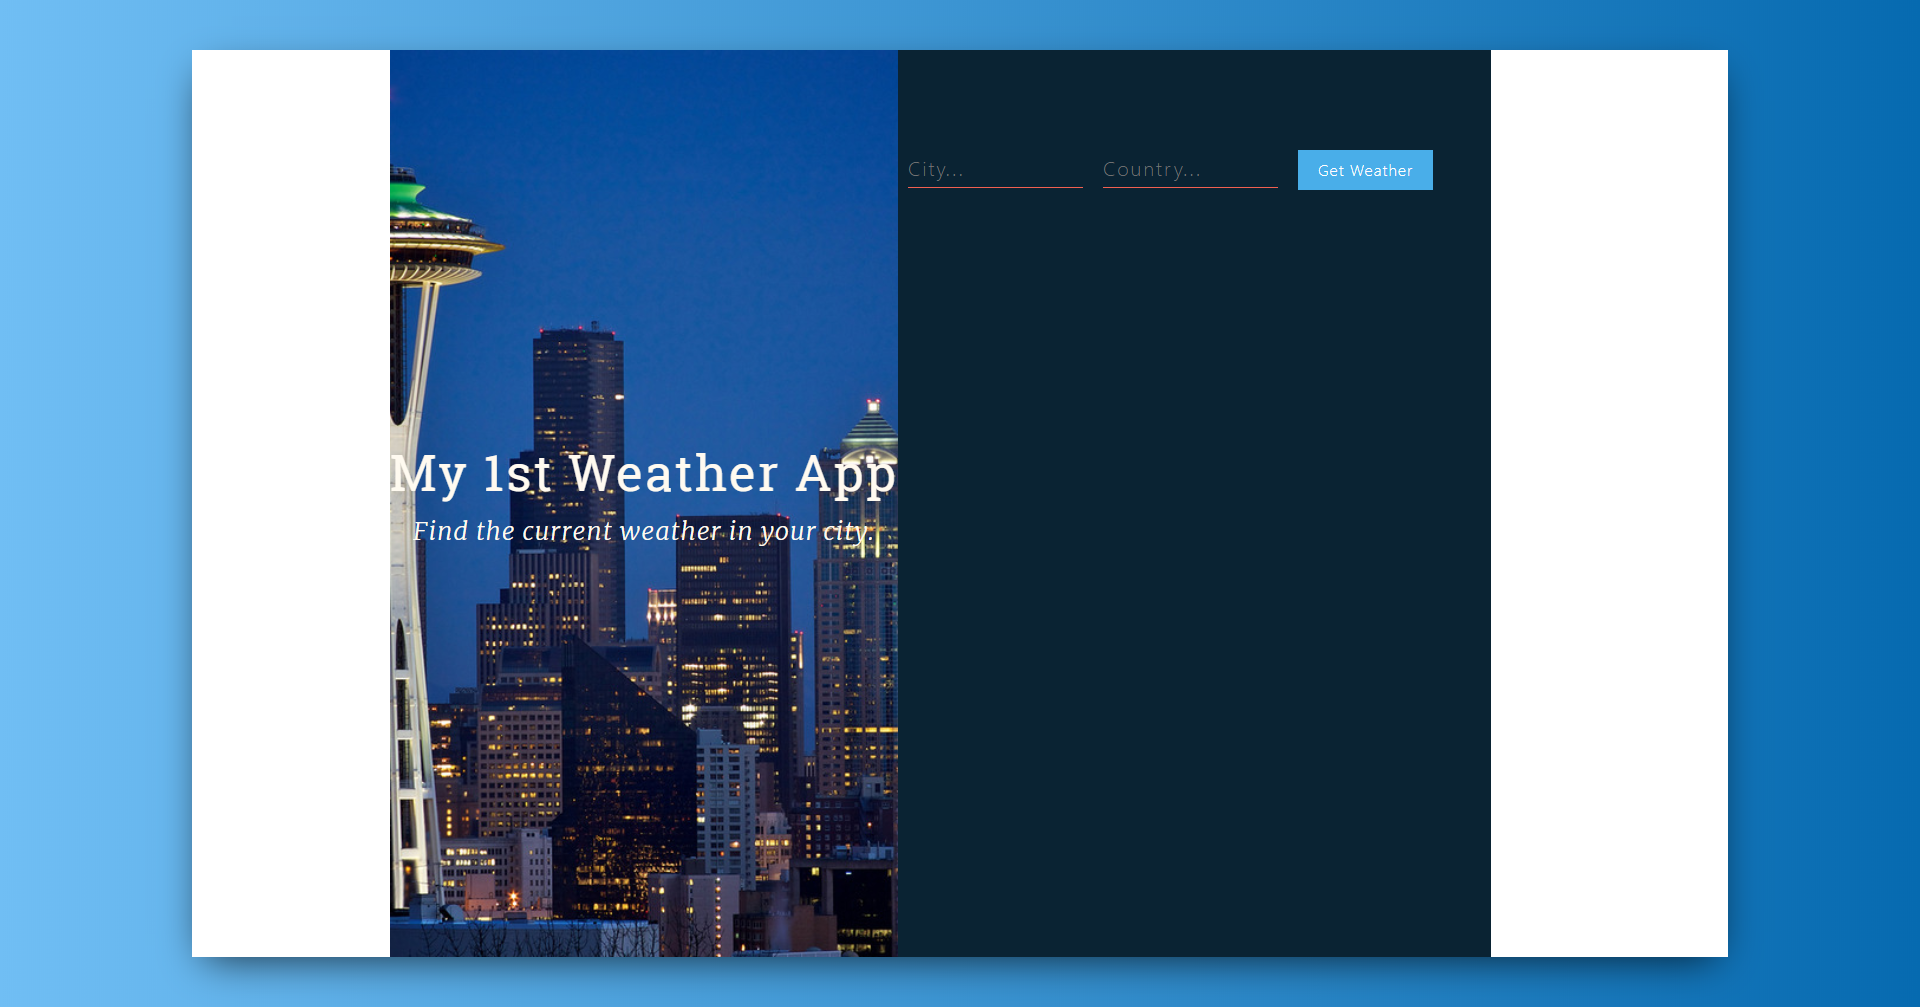
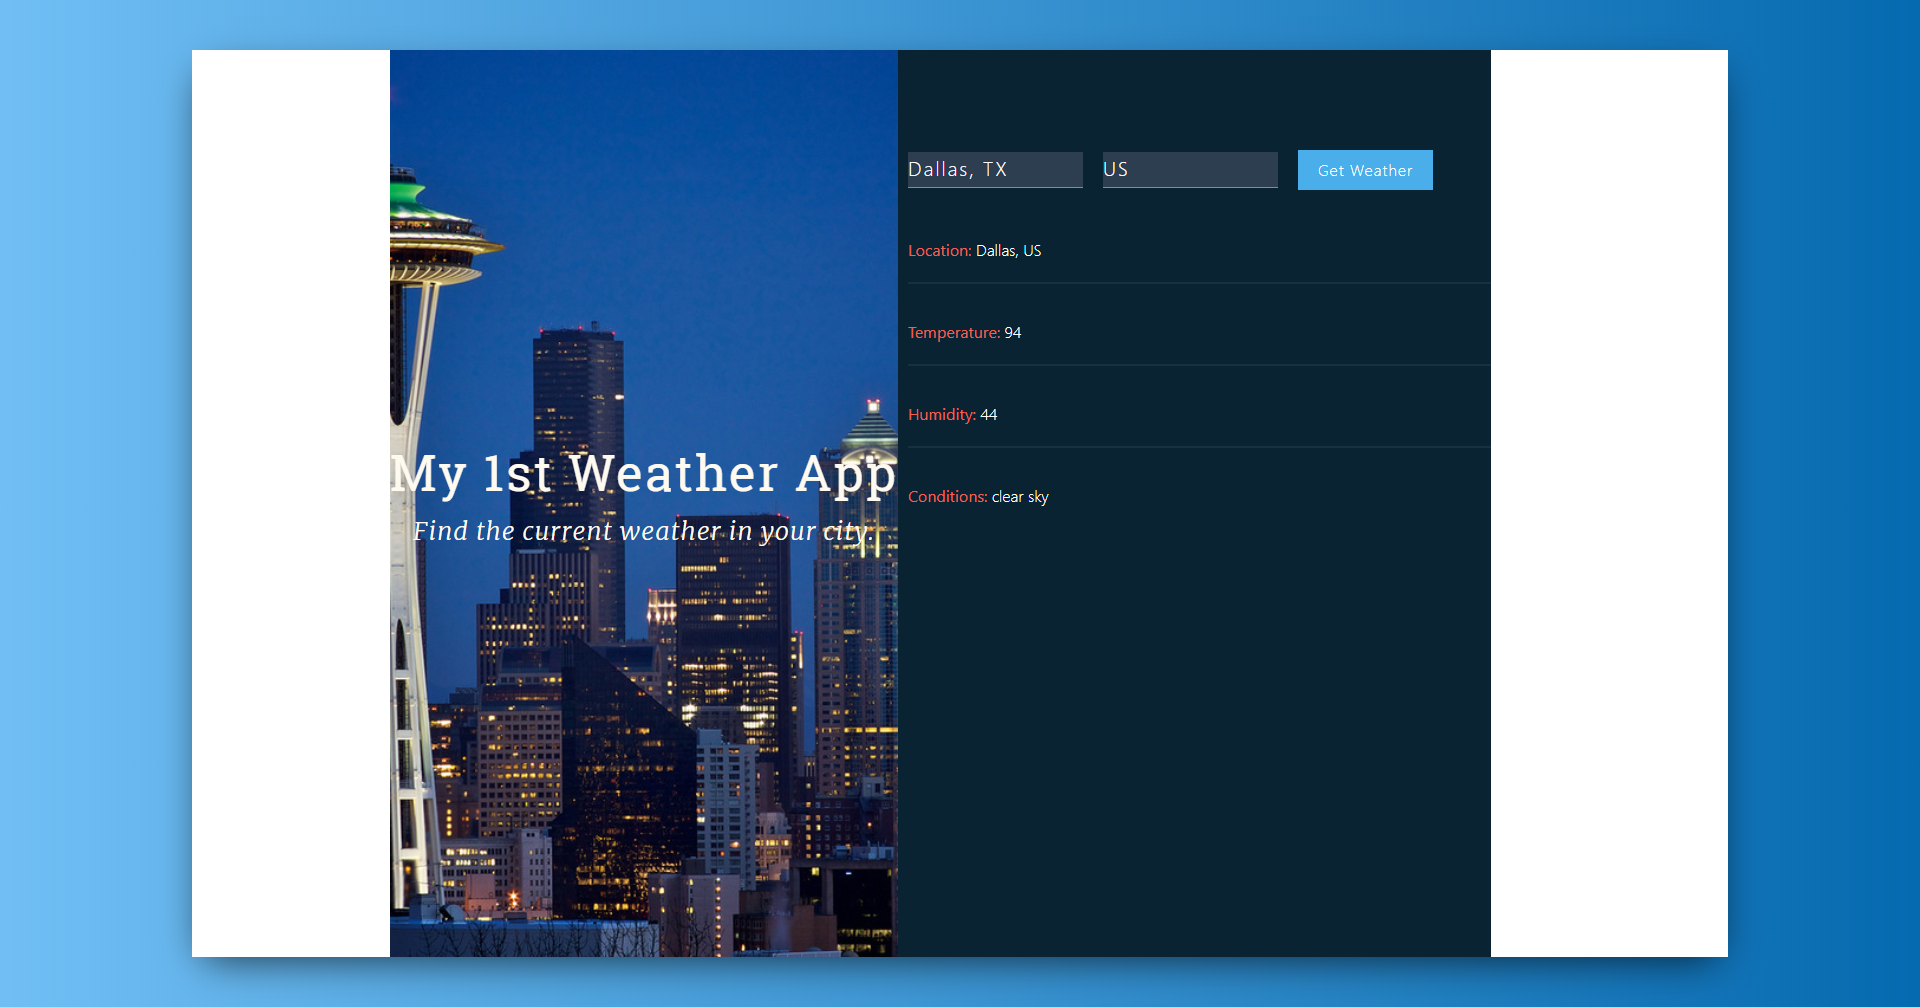
Updated

diff --git a/src/components/ProjectdetailComponent.js b/src/components/ProjectdetailComponent.js
@@ -8,23 +8,46 @@ import Iframe from 'react-iframe';
 
 
 function RenderProject({project}){
-    return(
-        <div className="col-12 col-md-5 m-1 mx-auto">
-            <FadeTransform in
-                transformProps={{
-                    exitTransform: 'scale(0.5) translateY(-50%)'
-                }}>
-                <Card>
-                    <CardImg width="100%" src={(project.image)} alt={project.name}></CardImg>
-                    <CardBody>
-                        <CardTitle>{project.name}</CardTitle>
-                        <CardText>{project.description}</CardText>
-                    </CardBody>
-                </Card>
-                <br/>
-            </FadeTransform>
-        </div>
-    );
+
+    if(project.link === null){
+        return(
+            <div className="col-12 col-md-5 m-1 mx-auto">
+                <FadeTransform in
+                    transformProps={{
+                        exitTransform: 'scale(0.5) translateY(-50%)'
+                    }}>
+                    <Card>
+                        <CardImg width="100%" src={(project.image)} alt={project.name}></CardImg>
+                        <CardBody>
+                            <CardTitle>{project.name}</CardTitle>
+                            <CardText>{project.description}</CardText>
+                        </CardBody>
+                    </Card>
+                    <br/>
+                </FadeTransform>
+            </div>
+        );
+    }else{
+        return(
+            <div className="col-12 col-md-5 m-1 mx-auto">
+                <FadeTransform in
+                    transformProps={{
+                        exitTransform: 'scale(0.5) translateY(-50%)'
+                    }}>
+                    
+                        <Card>
+                            <CardImg width="100%" src={(project.image)} alt={project.name}></CardImg>
+                            <CardBody>
+                                <CardTitle>{project.name}</CardTitle>
+                                <CardText>{project.description}</CardText>
+                            </CardBody>
+                        </Card>
+                    
+                    <br/>
+                </FadeTransform>
+            </div>
+        )
+    }
 }
 
 function RenderSandbox({project}){

diff --git a/src/shared/comments.js b/src/shared/comments.js
@@ -103,5 +103,45 @@ export const COMMENTS =
         comment: "The codeSandbox below needs to be tinkered with to use the API but the code can still be viewed through the menu button in the upper left corner.",
         author: "Eric Syme",
         date: "2019-07-29T17:57:28.556094Z"
+    },
+    {
+        id: 0,
+        projectId: 3,
+        rating: 5,
+        comment: "Imagine all the eatables, living in conFusion!",
+        author: "John Lemon",
+        date: "2012-10-16T17:57:28.556094Z"
+    },
+    {
+        id: 1,
+        projectId: 3,
+        rating: 4,
+        comment: "Sends anyone to heaven, I wish I could get my mother-in-law to eat it!",
+        author: "Paul McVites",
+        date: "2014-09-05T17:57:28.556094Z"
+    },
+    {
+        id: 2,
+        projectId: 3,
+        rating: 3,
+        comment: "Eat it, just eat it!",
+        author: "Michael Jaikishan",
+        date: "2015-02-13T17:57:28.556094Z"
+    },
+    {
+        id: 3,
+        projectId: 3,
+        rating: 4,
+        comment: "Ultimate, Reaching for the stars!",
+        author: "Ringo Starry",
+        date: "2013-12-02T17:57:28.556094Z"
+    },
+    {
+        id: 4,
+        projectId: 3,
+        rating: 2,
+        comment: "It's your birthday, we're gonna party!",
+        author: "25 Cent",
+        date: "2011-12-02T17:57:28.556094Z"
     }
 ]

diff --git a/src/components/WeatherComponent.js b/src/components/WeatherComponent.js
@@ -1,0 +1,35 @@
+import React from 'react';
+import { Breadcrumb, BreadcrumbItem, Card, CardImg, CardText, CardBody, CardTitle, CardSubtitle} from 'reactstrap';
+import { Link } from 'react-router-dom';
+
+
+function RenderCard({item}) {
+    return(
+        <Card>
+            <CardImg src={item.image} alt={item.name} />
+            <CardBody>
+                <CardTitle>{item.name}</CardTitle>
+                {item.designation ? <CardSubtitle>{item.designation}</CardSubtitle> : null }
+                <CardText>{item.description}</CardText>
+            </CardBody>
+        </Card>
+    );
+}
+
+function WeatherHome(props) {
+    return(
+      <div className="container">
+        <div className="row align-items-start">
+            <Breadcrumb>
+                <BreadcrumbItem><Link to="/home">Home</Link></BreadcrumbItem>
+                <BreadcrumbItem active>Weather App</BreadcrumbItem>
+            </Breadcrumb>
+            <div className="col-12 m-1">
+                <RenderCard item={props.weather} />
+            </div>
+        </div>
+      </div>
+    );
+}
+
+export default WeatherHome;

diff --git a/src/components/MainComponent.js b/src/components/MainComponent.js
@@ -9,10 +9,12 @@ import CertificateDetail from './CertdetailComponent';
 import ProjectDetail from './ProjectdetailComponent';
 import { Switch, Route, Redirect, withRouter} from 'react-router-dom';
 import BioHome from './BioComponent';
+import WeatherHome from './WeatherComponent';
 import { addComment } from '../redux/ActionCreators';
 import { connect } from 'react-redux';
 import { actions } from 'react-redux-form';
 import { TransitionGroup, CSSTransition } from 'react-transition-group';
+import { Weather } from '../redux/weather';
 
 
 
@@ -63,6 +65,7 @@ class Main extends Component {
           />
       );
     }
+
 
     const ProjectWithId = ({match}) => {
       return(

diff --git a/src/shared/projects.js b/src/shared/projects.js
@@ -27,7 +27,7 @@ export const PROJECTS =
             description:'An updated and Reactified version of the Bootstrap project, this React.js app operates as a single-page application using Redux, Thunk, and Fetch to use with a JSON server to hold data that is changed by the user.  Similarly, this portfolio site offers the ability to add to the comments of each project.  Go ahead, add a comment by clicking the button to the right. '
         },
         {
-            id: 2,
+            id: 3,
             name:'Bootstrap -- Ristorante ConFusion',
             image: '/assets/images/confusion.png',
             category: 'mains',

diff --git a/src/shared/weather.js b/src/shared/weather.js
@@ -1,0 +1,11 @@
+export const WEATHER = [
+    {
+      id: 0,
+      name: 'Weather App',
+      image: '',
+      imageB: '',
+      featured: true,
+      description: 'Lorem ...',
+      link: '"/weatherapp"'
+    }
+  ];

diff --git a/src/redux/weather.js b/src/redux/weather.js
@@ -1,0 +1,8 @@
+import { WEATHER } from '../shared/weather';
+
+export const Weather = (state = WEATHER, action) => {
+    switch (action.type) {
+        default:
+          return state;
+      }
+};
